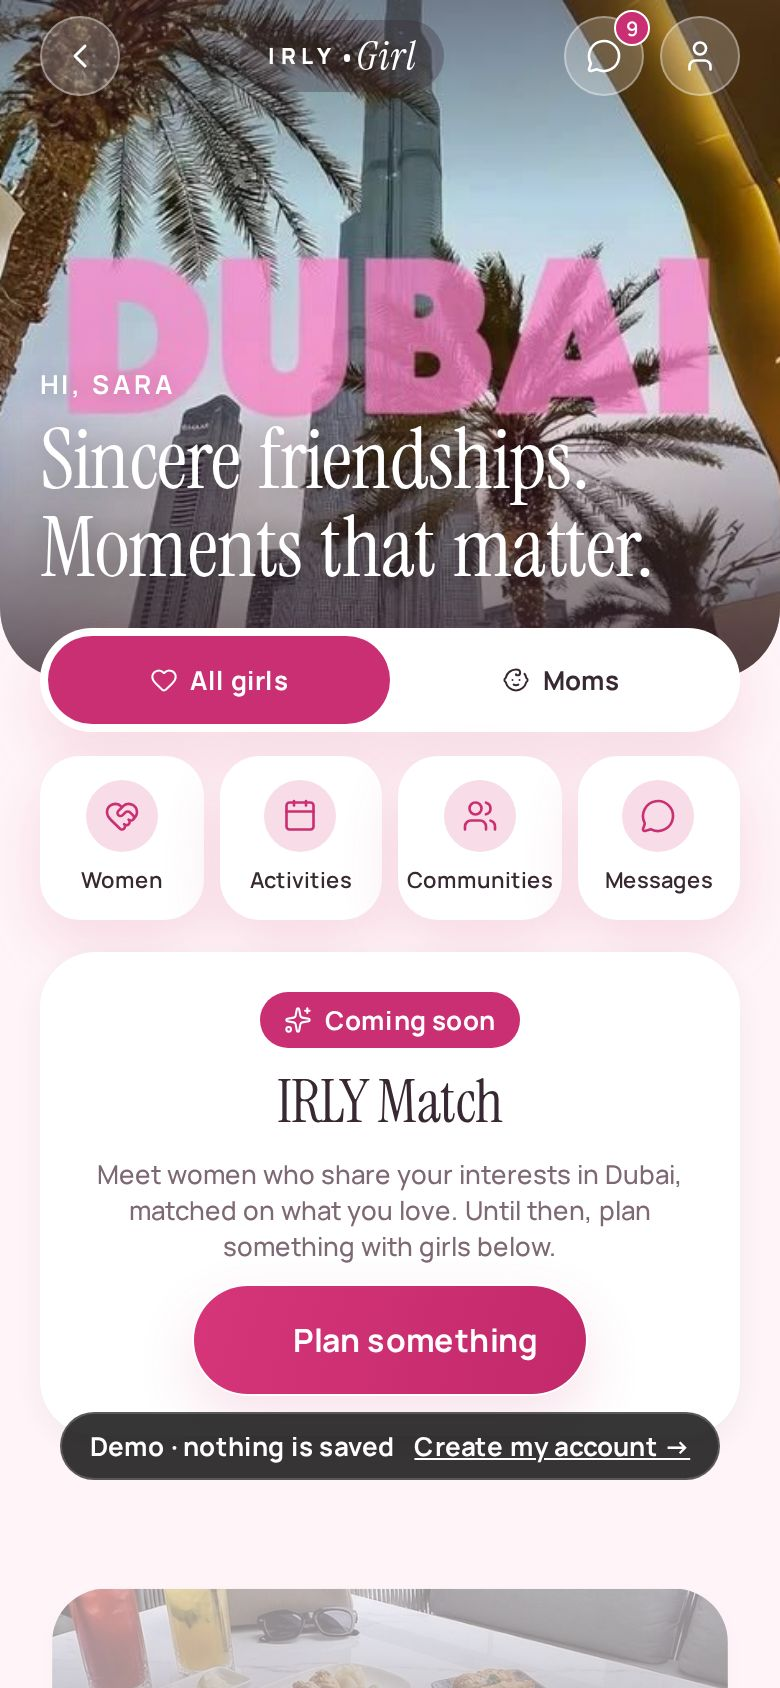
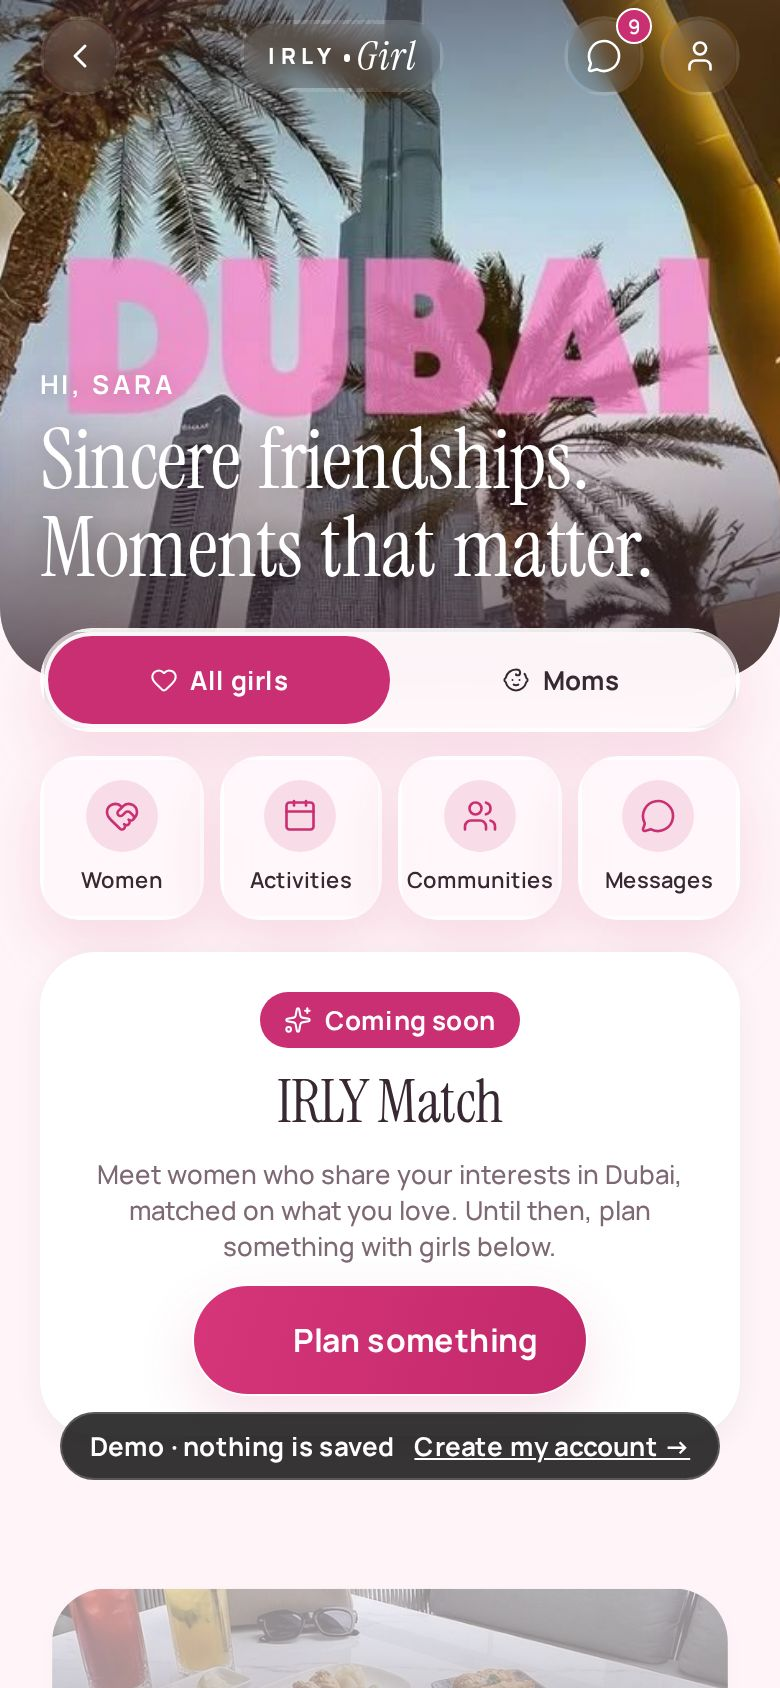
IRLY Girl: frosted glass on floating controls, hide confirmed by the server
- GlassFill: IRLY Girl's frosted glass (the app's Glass, kept light, with a
  rose veil; smoked on photos), laid under a control's content at zIndex -1.
- Glass on the hero controls (back, logo, messages, profile), the All
  girls / Moms switch, the shortcuts and the community / plan cards that
  overlap their cover photo. New beige and lavender wash tokens.
- Hide (safety sheet): "Hidden from your discovery" now shows only once the
  server has recorded it. Before, a failure showed the success toast and the
  error toast together, and the card came back.
- Website captures of the three screens refreshed.

Claude-Session: https://claude.ai/code/session_013FHMkQ59onEZ4Qs9nswDKB

diff --git a/src/app/girl/index.tsx b/src/app/girl/index.tsx
@@ -23,7 +23,7 @@ import { FiltersSheet, ProfileSheet, SafetySheet } from '@/features/girl/Sheets'
 import type { Suggestion } from '@/features/girl/suggest';
 import { girl, GIRL_TINT, girlType } from '@/features/girl/theme';
 import type { Candidate, Filters, MatchResult, MatchState, MatchSummary, Section } from '@/features/girl/types';
-import { GButton } from '@/features/girl/ui';
+import { GButton, GlassFill } from '@/features/girl/ui';
 import { GirlHero } from '@/features/girl/GirlHero';
 import { GirlMessages } from '@/features/girl/GirlMessages';
 import { useUnread } from '@/components/navigation/Headers';
@@ -278,7 +278,8 @@ export default function GirlHome() {
     loadDeck(f, 0);
   };
 
-  const decide = async (c: Candidate, d: 'like' | 'pass') => {
+  /** Resolves true once the server has recorded the decision. */
+  const decide = async (c: Candidate, d: 'like' | 'pass'): Promise<boolean> => {
     setDeck((list) => list.filter((x) => x.userId !== c.userId));
     setOpen(null);
     try {
@@ -289,11 +290,13 @@ export default function GirlHome() {
       } else if (d === 'like') {
         toast(tx('{name} will see you want to connect', { name: c.firstName }), 'heartHandshake', 'brand');
       }
+      return true;
     } catch (e) {
       // Put her back so nothing is lost.
       setDeck((list) => [c, ...list]);
       if (isGirlRefusal(e)) boot();
       else toast(friendlyError(e instanceof Error ? e.message : 'Something went wrong. Try again.'), 'x', 'live');
+      return false;
     }
   };
 
@@ -346,6 +349,7 @@ export default function GirlHome() {
         ) : null}
 
         <View style={styles.modes} onLayout={(e) => setModesW(e.nativeEvent.layout.width)}>
+          <GlassFill level="thick" radius={26} />
           <Animated.View style={[styles.modeThumb, { width: (modesW - 8) / 2 }, thumb]} />
           {(['all', 'moms'] as const).map((m) => (
             <PressableScale
@@ -617,10 +621,11 @@ export default function GirlHome() {
         name={safetyFor?.firstName ?? ''}
         visible={Boolean(safetyFor)}
         onClose={() => setSafetyFor(null)}
-        onHide={() => {
-          if (safetyFor) decide(safetyFor, 'pass');
+        onHide={async () => {
+          const c = safetyFor;
           setSafetyFor(null);
-          toast('Hidden from your discovery', 'eye', 'brand');
+          // Confirmed by the server first: on failure decide() puts her back and says why.
+          if (c && (await decide(c, 'pass'))) toast('Hidden from your discovery', 'eye', 'brand');
         }}
         onBlock={async () => {
           const c = safetyFor;
@@ -719,7 +724,7 @@ function CommunityTile({ c, away, onPress }: { c: { id: string; name: string; me
 }
 
 const styles = StyleSheet.create({
-  modes: { flexDirection: 'row', marginHorizontal: space.gutter, marginTop: -26, padding: 4, borderRadius: 26, backgroundColor: girl.surface, boxShadow: girl.shadow },
+  modes: { flexDirection: 'row', marginHorizontal: space.gutter, marginTop: -26, padding: 4, borderRadius: 26, zIndex: 0, boxShadow: girl.shadow },
   modeThumb: { position: 'absolute', left: 4, top: 4, bottom: 4, borderRadius: 22, backgroundColor: girl.rose },
   mode: { flex: 1, flexDirection: 'row', gap: 6, height: 44, borderRadius: 22, alignItems: 'center', justifyContent: 'center' },
   moving: { flexDirection: 'row', alignItems: 'center', gap: 12, marginHorizontal: space.gutter, marginTop: space[5], padding: 14, borderRadius: radius.xl, backgroundColor: girl.surface, boxShadow: girl.shadowSoft },

diff --git a/src/features/girl/GirlHero.tsx b/src/features/girl/GirlHero.tsx
@@ -13,6 +13,7 @@ import { PressableScale } from '@/motion/PressableScale';
 import { space } from '@/theme/tokens';
 import { GirlLogo } from './GirlLogo';
 import { girl, GIRL_TINT, girlType } from './theme';
+import { GlassFill } from './ui';
 
 const HEIGHT = 340;
 
@@ -83,9 +84,11 @@ export function GirlHero({
       </View>
       <View style={[styles.bar, { paddingTop: insets.top + 8 }]}>
         <PressableScale haptic="tap" scaleTo={0.9} onPress={onBack} accessibilityLabel="Back to IRLY" style={styles.round}>
+          <GlassFill dark level="thin" radius={20} />
           <Icon name="chevronLeft" size={20} color="#FFFFFF" />
         </PressableScale>
         <View style={styles.brand}>
+          <GlassFill dark level="thin" radius={18} />
           <GirlLogo size={18} onDark word={mode === 'moms' ? 'Moms' : 'Girl'} />
         </View>
         <View style={styles.actions}>
@@ -96,6 +99,7 @@ export function GirlHero({
             accessibilityLabel={unread ? tr('Messages, {n} unread', { n: unread }) : tr('Messages')}
             style={styles.round}
           >
+            <GlassFill dark level="thin" radius={20} />
             <Icon name="message" size={18} color="#FFFFFF" />
             {unread ? (
               <View style={styles.badge}>
@@ -106,6 +110,7 @@ export function GirlHero({
             ) : null}
           </PressableScale>
           <PressableScale haptic="select" scaleTo={0.9} onPress={onProfile} accessibilityLabel="My profile" style={styles.round}>
+            <GlassFill dark level="thin" radius={20} />
             <Icon name="user" size={18} color="#FFFFFF" />
           </PressableScale>
         </View>
@@ -139,9 +144,9 @@ const styles = StyleSheet.create({
   actions: { flexDirection: 'row', gap: 8 },
   badge: { position: 'absolute', top: -4, right: -4, minWidth: 18, height: 18, paddingHorizontal: 4, borderRadius: 9, backgroundColor: girl.rose, alignItems: 'center', justifyContent: 'center', borderWidth: 1.5, borderColor: '#FFFFFF' },
   badgeText: { fontSize: 10, lineHeight: 12, fontWeight: '700' },
-  round: { width: 40, height: 40, borderRadius: 20, backgroundColor: 'rgba(255,250,246,0.22)', borderWidth: 1, borderColor: 'rgba(255,255,255,0.35)', alignItems: 'center', justifyContent: 'center' },
+  round: { width: 40, height: 40, borderRadius: 20, zIndex: 0, alignItems: 'center', justifyContent: 'center' },
   words: { position: 'absolute', left: space.gutter, right: space.gutter, bottom: 44 },
-  brand: { flexDirection: 'row', alignItems: 'center', paddingHorizontal: 14, height: 36, borderRadius: 18, backgroundColor: 'rgba(56,40,50,0.32)' },
+  brand: { flexDirection: 'row', alignItems: 'center', paddingHorizontal: 14, height: 36, borderRadius: 18, zIndex: 0 },
   shadow: { textShadowColor: 'rgba(0,0,0,0.25)', textShadowRadius: 12, textShadowOffset: { width: 0, height: 2 } },
   line: { flexDirection: 'row', flexWrap: 'wrap', columnGap: 9 },
 });

diff --git a/src/features/girl/DemoScreens.tsx b/src/features/girl/DemoScreens.tsx
@@ -20,7 +20,7 @@ import { PressableScale } from '@/motion/PressableScale';
 import { radius, space } from '@/theme/tokens';
 import { demoPhoto, demoPostsOf, findDemoCommunity, findDemoPlan, planGoing, planStartsAt, useDemoEngagement, useDemoGirl } from './demo';
 import { girl, GIRL_TINT, girlType } from './theme';
-import { GButton } from './ui';
+import { GButton, GlassFill } from './ui';
 import { GirlPostCard } from './world';
 
 /**
@@ -102,6 +102,7 @@ export function DemoCommunityScreen({ id }: { id: string }) {
         </View>
 
         <Animated.View entering={reduced ? undefined : enter.rise(3)} style={styles.card}>
+          <GlassFill level="thick" radius={radius.xl} />
           <View style={styles.row}>
             <AvatarStack people={people(c.faces)} size={30} max={5} />
             <Text variant="label" color={girl.ink} style={{ flex: 1 }}>
@@ -229,6 +230,7 @@ export function DemoPlanScreen({ id }: { id: string }) {
         </View>
 
         <Animated.View entering={reduced ? undefined : enter.rise(2)} style={styles.card}>
+          <GlassFill level="thick" radius={radius.xl} />
           <Fact icon="pin" text={p.place} />
           <Fact icon="users" text={tx('{n}/{max} going', { n, max: p.capacity })} />
           <Fact icon="ticket" text={tx('Free')} />
@@ -244,6 +246,7 @@ export function DemoPlanScreen({ id }: { id: string }) {
         </Animated.View>
 
         <Animated.View entering={reduced ? undefined : enter.rise(3)} style={[styles.card, { marginTop: 12 }]}>
+          <GlassFill level="thick" radius={radius.xl} />
           <Text variant="titleM" color={girl.ink} style={girlType.card}>
             {tx('Who’s going')}
           </Text>
@@ -330,7 +333,7 @@ const styles = StyleSheet.create({
   hero: { height: HERO, overflow: 'hidden', borderBottomLeftRadius: 32, borderBottomRightRadius: 32, backgroundColor: girl.blush },
   heroText: { flex: 1, justifyContent: 'flex-end', gap: 6, padding: space.gutter, paddingBottom: 28 },
   kicker: { letterSpacing: 1.6, fontWeight: '700' },
-  card: { marginHorizontal: space.gutter, marginTop: -22, padding: 16, gap: 12, borderRadius: radius.xl, backgroundColor: girl.surface, boxShadow: girl.shadow },
+  card: { marginHorizontal: space.gutter, marginTop: -22, padding: 16, gap: 12, borderRadius: radius.xl, zIndex: 0, boxShadow: girl.shadow },
   row: { flexDirection: 'row', alignItems: 'center', gap: 10 },
   tabs: { flexDirection: 'row', gap: 8, paddingHorizontal: space.gutter, marginTop: space[6], marginBottom: space[4] },
   tab: { height: 38, paddingHorizontal: 16, borderRadius: 19, alignItems: 'center', justifyContent: 'center', backgroundColor: girl.surface, boxShadow: girl.shadowSoft },

diff --git a/src/features/girl/ui.tsx b/src/features/girl/ui.tsx
@@ -2,12 +2,32 @@ import { memo, type ReactNode } from 'react';
 import { ActivityIndicator, StyleSheet, View, type StyleProp, type ViewStyle } from 'react-native';
 import { LinearGradient } from 'expo-linear-gradient';
 import Animated from 'react-native-reanimated';
+import { Glass } from '@/components/ui/Glass';
 import { Icon, type IconName } from '@/components/ui/Icon';
 import { Text } from '@/components/ui/Text';
 import { PressableScale } from '@/motion/PressableScale';
 import { SelectionLayers, useSelection } from '@/motion/Selection';
-import { radius } from '@/theme/tokens';
+import { radius, type GlassLevel } from '@/theme/tokens';
 import { girl, girlType } from './theme';
+
+/**
+ * IRLY Girl's frosted glass, laid under a control's content: the app's Glass
+ * (blur, hairline edge, top highlight; a dense tint on Android) kept light in
+ * every theme, with a rose veil on top. `dark` is for controls placed on a
+ * photo, where white text needs a smoked pane. The parent sets the shape
+ * (borderRadius) and keeps its own shadow, so the glass never clips it;
+ * the parent also sets `zIndex: 0`, so the glass (at -1) stays under its
+ * content, icons included, without falling behind the parent itself on web.
+ */
+export const GlassFill = memo(function GlassFill({ dark, level = 'regular', radius: r }: { dark?: boolean; level?: GlassLevel; radius: number }) {
+  return (
+    <View pointerEvents="none" style={[StyleSheet.absoluteFill, { zIndex: -1, borderRadius: r, overflow: 'hidden' }]}>
+      <Glass light={!dark} dark={dark} level={level} style={[StyleSheet.absoluteFill, { borderRadius: r }]}>
+        {dark ? null : <View style={[StyleSheet.absoluteFill, { backgroundColor: girl.glassRose }]} />}
+      </Glass>
+    </View>
+  );
+});
 
 /** Chip in the IRLY Girl palette: rose when selected, white with a pink hairline otherwise. */
 export const GChip = memo(function GChip({

diff --git a/src/features/girl/world.tsx b/src/features/girl/world.tsx
@@ -28,7 +28,7 @@ import { PressableScale } from '@/motion/PressableScale';
 import { radius, space } from '@/theme/tokens';
 import { girlPhotoFor } from './photos';
 import { girl, GIRL_TINT, girlType } from './theme';
-import { GButton } from './ui';
+import { GButton, GlassFill } from './ui';
 
 /* ───────── Kinds of plans ───────── */
 
@@ -541,6 +541,7 @@ export function Shortcuts({ items }: { items: { icon: IconName; label: string; o
       {items.map((s, i) => (
         <Animated.View key={s.label} entering={enter.pop(i, 180)} style={{ flex: 1 }}>
           <PressableScale haptic="select" scaleTo={0.94} onPress={s.onPress} accessibilityRole="button" accessibilityLabel={tx(s.label)} style={styles.shortcut}>
+            <GlassFill radius={radius.lg} />
             <View style={styles.shortcutIcon}>
               <Icon name={s.icon} size={18} color={girl.rose} />
             </View>
@@ -575,6 +576,6 @@ const styles = StyleSheet.create({
   postHead: { flexDirection: 'row', alignItems: 'center', gap: 10 },
   linked: { flexDirection: 'row', alignItems: 'center', gap: 10, padding: 12, borderRadius: radius.md, backgroundColor: girl.bg },
   shortcuts: { flexDirection: 'row', gap: 8, paddingHorizontal: space.gutter, marginTop: space[4] },
-  shortcut: { alignItems: 'center', gap: 6, paddingVertical: 12, paddingHorizontal: 2, borderRadius: radius.lg, backgroundColor: girl.surface, boxShadow: girl.shadow },
+  shortcut: { alignItems: 'center', gap: 6, paddingVertical: 12, paddingHorizontal: 2, borderRadius: radius.lg, zIndex: 0, boxShadow: girl.shadow },
   shortcutIcon: { width: 36, height: 36, borderRadius: 18, backgroundColor: girl.blush, alignItems: 'center', justifyContent: 'center' },
 });

diff --git a/src/features/girl/theme.ts b/src/features/girl/theme.ts
@@ -24,9 +24,14 @@ export const girl = {
   ink: '#382832',
   inkSoft: '#7E6873',
   inkFaint: '#947F8A',
+  /** Warm off-white and a whisper of lavender, for washes behind glass. */
+  beige: '#F8F1EB',
+  lavender: '#F1ECF8',
   line: 'rgba(201,47,114,0.12)',
   glass: 'rgba(255,245,248,0.78)',
   glassDark: 'rgba(56,40,50,0.35)',
+  /** The rose veil laid over IRLY Girl's frosted glass (see GlassFill). */
+  glassRose: 'rgba(255,236,244,0.38)',
   positive: '#2F8F5E',
   critical: '#B3261E',
   /** The primary gradient (buttons): white text stays above 4.5:1 end to end. */
